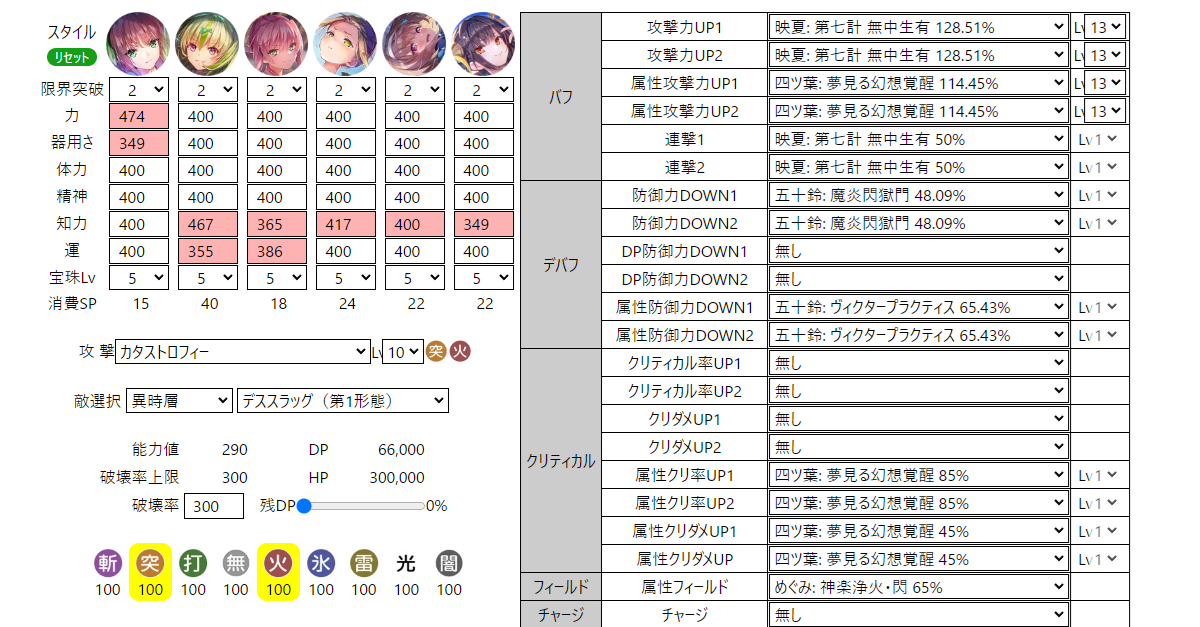
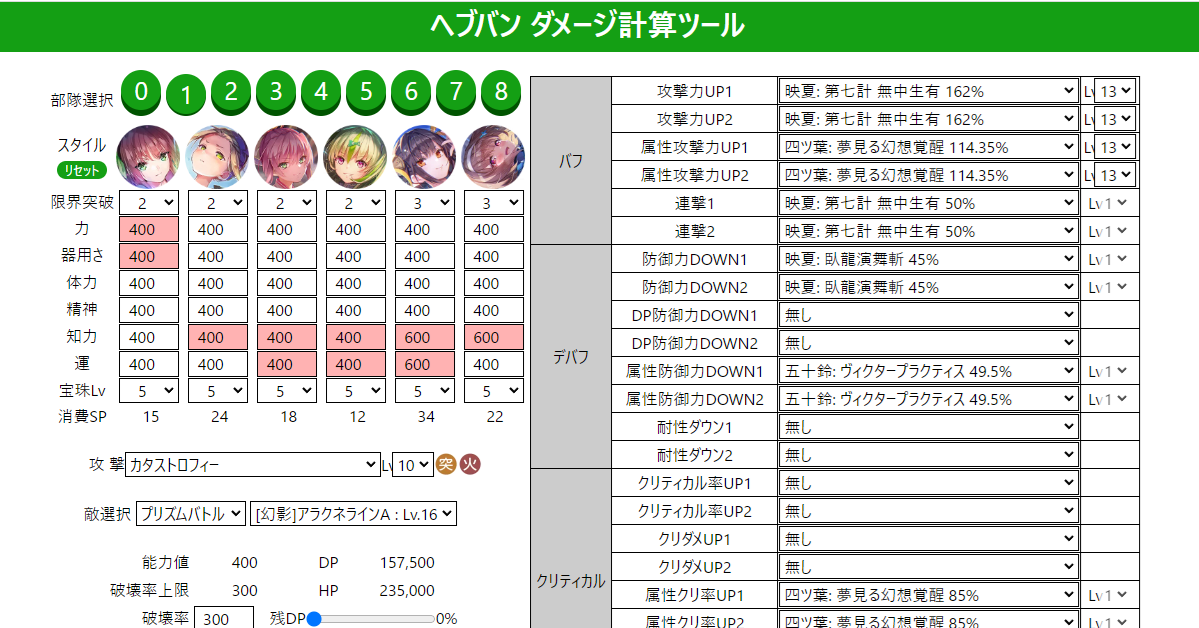
部隊、敵保存、不具合修正

diff --git a/index.html b/index.html
@@ -30,7 +30,7 @@
   <script src="js/enemy.js"></script>
   <script>
     var chara_no;
-    var select_troops = 0;
+    var select_troops = localStorage.getItem('select_troops');
     var select_style_list = [0, 0, 0, 0, 0, 0];
     var status_kbn = ["", "str", "dex", "con", "mnd", "int", "luk"];
     var type_physical = ["", "slash", "stab", "strike"];
@@ -57,10 +57,21 @@
       });
 
       // 敵情報設定
-      createEnemyList("1");
+      let enemy_class = localStorage.getItem("enemy_class");
+      enemy_class = enemy_class ? enemy_class : "1";
+      $("#enemy_class").val(enemy_class);
+      createEnemyList(enemy_class);
+      let enemy_list = localStorage.getItem("enemy_list");
+      enemy_list = enemy_list ? enemy_list : "1";
+      $("#enemy_list").val(enemy_list);
+      setEnemyStatus();
+
       // イベント設定
       setEventTrigger();
+
       // スタイルリスト読み込み
+      select_troops = select_troops ? select_troops : 0;
+      $("#troops_btn_" + select_troops).addClass("selected_troops");
       loadTroopsList(select_troops);
     });
   </script>
@@ -76,15 +87,15 @@
         <div id="char_list" class="w-[482px] grid grid-cols-7 text-center gap-y-px gap-x-0">
           <label class="mt-3 mb-3">部隊選択</label>
           <div class="col-span-6 flex">
-            <input type="button" class="troops_btn selected_troops" value="0">
-            <input type="button" class="troops_btn" value="1">
-            <input type="button" class="troops_btn" value="2">
-            <input type="button" class="troops_btn" value="3">
-            <input type="button" class="troops_btn" value="4">
-            <input type="button" class="troops_btn" value="5">
-            <input type="button" class="troops_btn" value="6">
-            <input type="button" class="troops_btn" value="7">
-            <input type="button" class="troops_btn" value="8">
+            <input type="button" id="troops_btn_0" class="troops_btn" value="0">
+            <input type="button" id="troops_btn_1" class="troops_btn" value="1">
+            <input type="button" id="troops_btn_2" class="troops_btn" value="2">
+            <input type="button" id="troops_btn_3" class="troops_btn" value="3">
+            <input type="button" id="troops_btn_4" class="troops_btn" value="4">
+            <input type="button" id="troops_btn_5" class="troops_btn" value="5">
+            <input type="button" id="troops_btn_6" class="troops_btn" value="6">
+            <input type="button" id="troops_btn_7" class="troops_btn" value="7">
+            <input type="button" id="troops_btn_8" class="troops_btn" value="8">
           </div>
           <div class="mt-2">
             <div>

diff --git a/js/damege.js b/js/damege.js
@@ -5,10 +5,13 @@ function setEventTrigger() {
     });
     // 敵リストイベント
     $("#enemy_class").on("change", function(event) {
-        let enemy_class = $("#enemy_class option:selected").val();
+        let enemy_class = $(this).val();
+        localStorage.setItem("enemy_class", enemy_class);
+        localStorage.setItem("enemy_list", "1");
         createEnemyList(enemy_class);
     });
     $("#enemy_list").on("change", function(event) {
+        localStorage.setItem("enemy_list", $(this).val());
         setEnemyStatus();
     });
     // 攻撃スキル変更
@@ -54,12 +57,12 @@ function setEventTrigger() {
         for (let i = 1; i <= 3; i++) {
             $("#" + status_kbn[skill_info["ref_status_" + i]] + "_" + chara_no).addClass("status_attack_skill");
         }
-        let limit_count = Number($("#limit_" + chara_no).val());
         $("input[type=checkbox].ability").each(function(index, value) {
             let ability_id = $(value).data("ability_id");
             let chara_no = $(value).data("chara_no");
             let ability_info = getAbilityInfo(ability_id);
             let limit_border = Number($(value).data("limit_border"));
+            let limit_count = Number($("#limit_" + chara_no).val());
             setAbilityCheck(value, ability_info, limit_border, limit_count, chara_id);
         });
         $(".redisplay").each(function(index, value) {
@@ -67,6 +70,7 @@ function setEventTrigger() {
             select2ndSkill($(value));
         });
         // アビリティ項目の表示設定
+        let limit_count = Number($("#limit_" + chara_no).val());
         setAbilityDisplay(limit_count, chara_id);
 
         let attack_physical = type_physical[skill_info.attack_physical];
@@ -238,6 +242,7 @@ function setEventTrigger() {
         $(this).addClass("selected_troops");
         styleReset(false);
         select_troops = $(this).val();
+        localStorage.setItem('select_troops', select_troops);
         loadTroopsList(select_troops);
     });
     // ダメージ再計算
@@ -982,6 +987,15 @@ function setEnemyStatus() {
     $("#dp_range").val(0);
     $("#dp_rate").val('0%');
     displayWeakRow();
+    // バフ効果量を更新
+    $(".variable_effect_size").each(function(index, value) {
+        updateBuffEffectSize($(value));
+    });
+    // 再ソート
+    $(".redisplay").each(function(index, value) {
+        sortEffectSize($(value));
+        select2ndSkill($(value));
+    });
 }
 
 // 敵耐性設定
